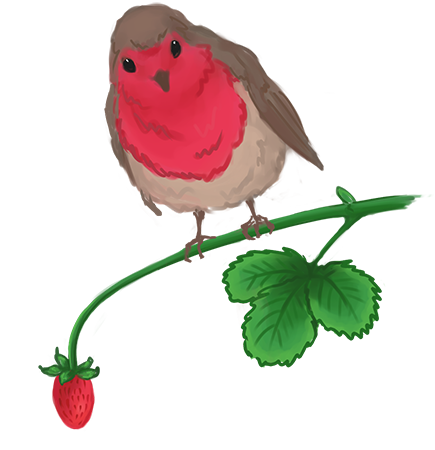
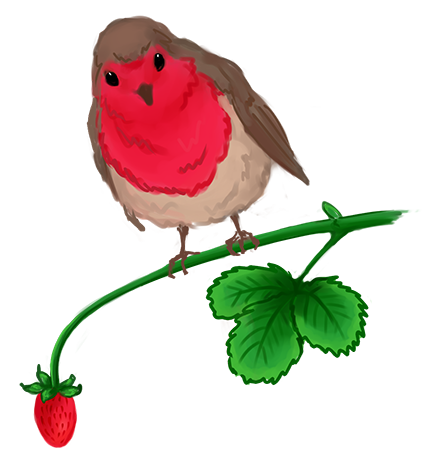
добавлено моргание и заголовки страниц

Changed region(s): [[0.0308, 0.0, 0.955, 0.9956]]

diff --git a/app/assets/stylesheets/main.sass b/app/assets/stylesheets/main.sass
@@ -1,12 +1,20 @@
 #content_bird
+  position: relative
   width: 435px
 
 #title_bird
   width: 803px
+  margin: 0 auto
 
 .main_link
   display: block
   margin: 0 auto
+
+#eyes
+  position: absolute
+  top: 44px
+  left: 98px
+
 
 body
   background:

diff --git a/app/assets/javascripts/application.js b/app/assets/javascripts/application.js
@@ -12,5 +12,5 @@
 //
 //= require jquery
 //= require jquery_ujs
-//= require turbolinks
+// require turbolinks
 //= require_tree .
